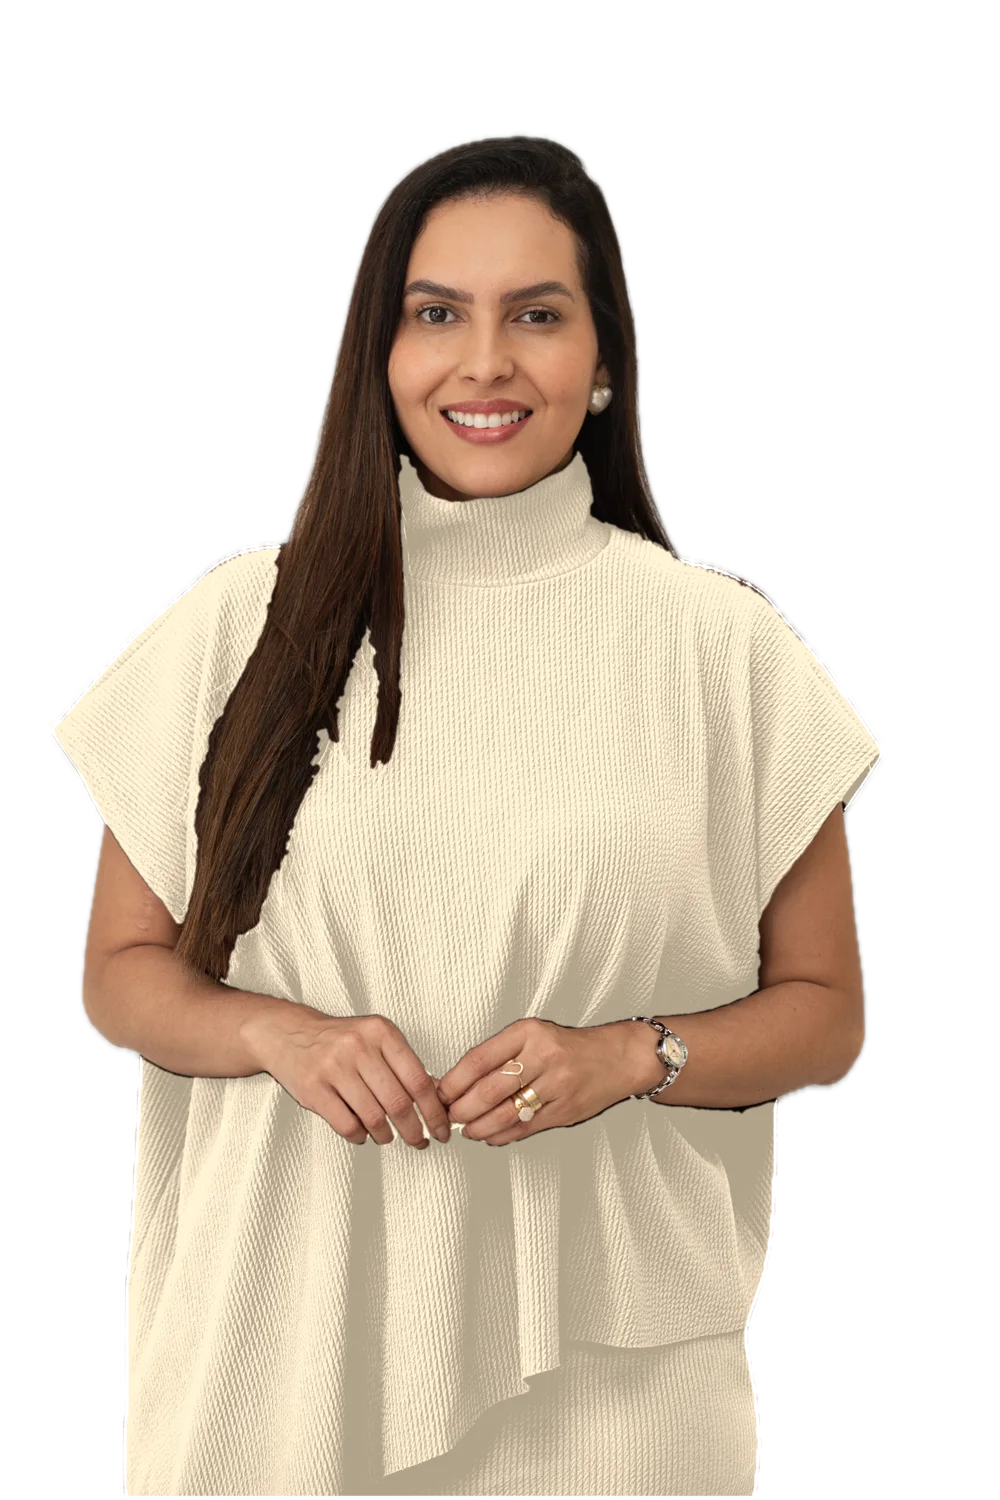
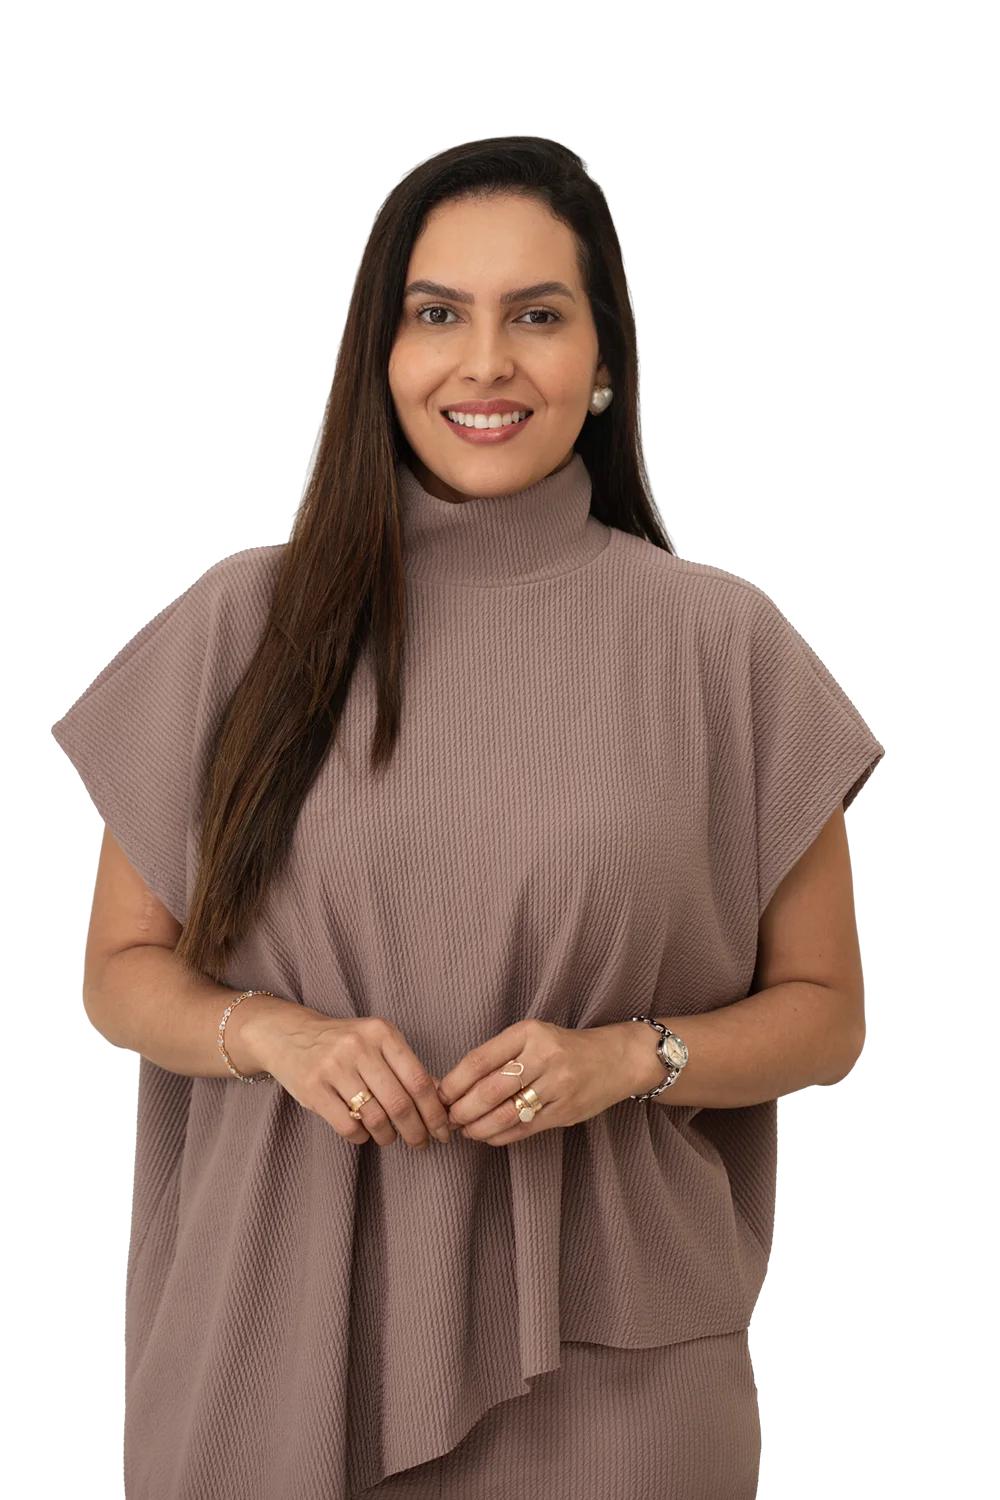
Nova foto da Mirelle na seção Sobre

diff --git a/index.html b/index.html
@@ -71,7 +71,7 @@
         <p class="assina">Porque o verdadeiro cuidado acontece antes do espelho.</p>
       </div>
       <figure class="retrato revelar">
-        <img src="assets/img/mirelle.webp" width="1000" height="1500" alt="Mirelle Neris, sorrindo, de blusa bege, com as mãos unidas à frente do corpo" loading="lazy">
+        <img src="assets/img/mirelle.webp" width="1000" height="1500" alt="Mirelle Neris, sorrindo, de blusa rosé acinzentada, com as mãos unidas à frente do corpo" loading="lazy">
       </figure>
     </div>
   </section>
